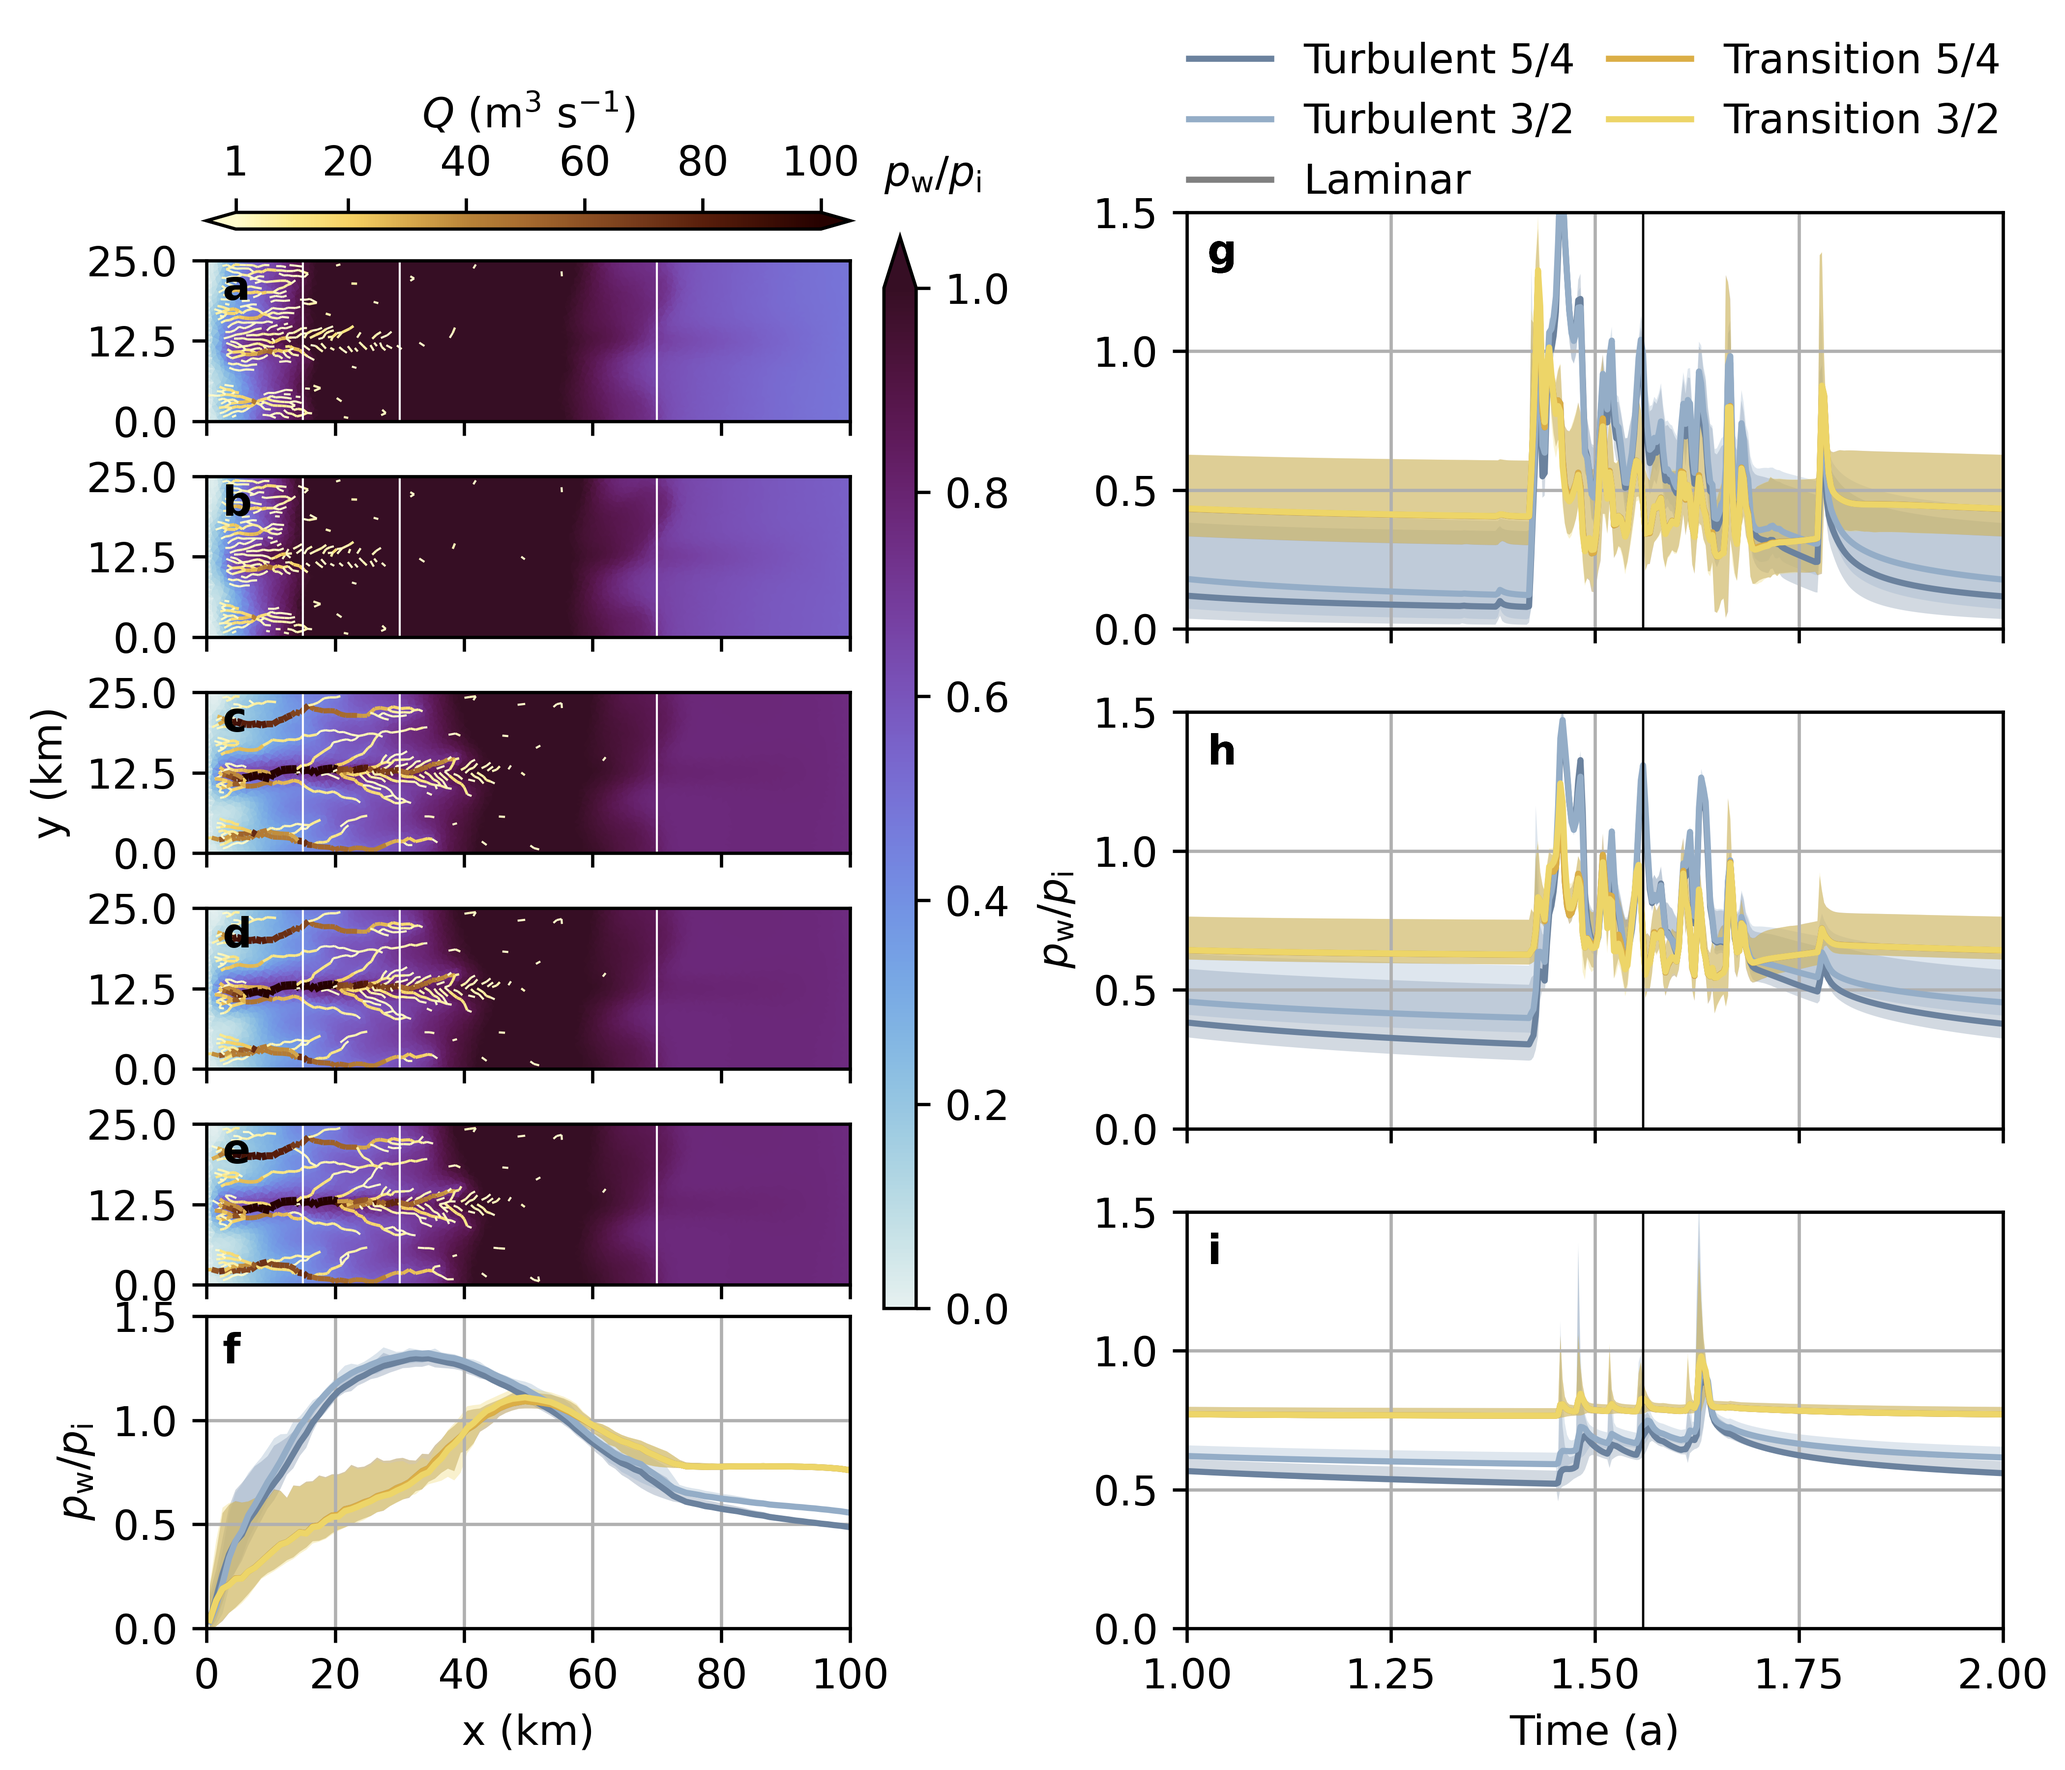
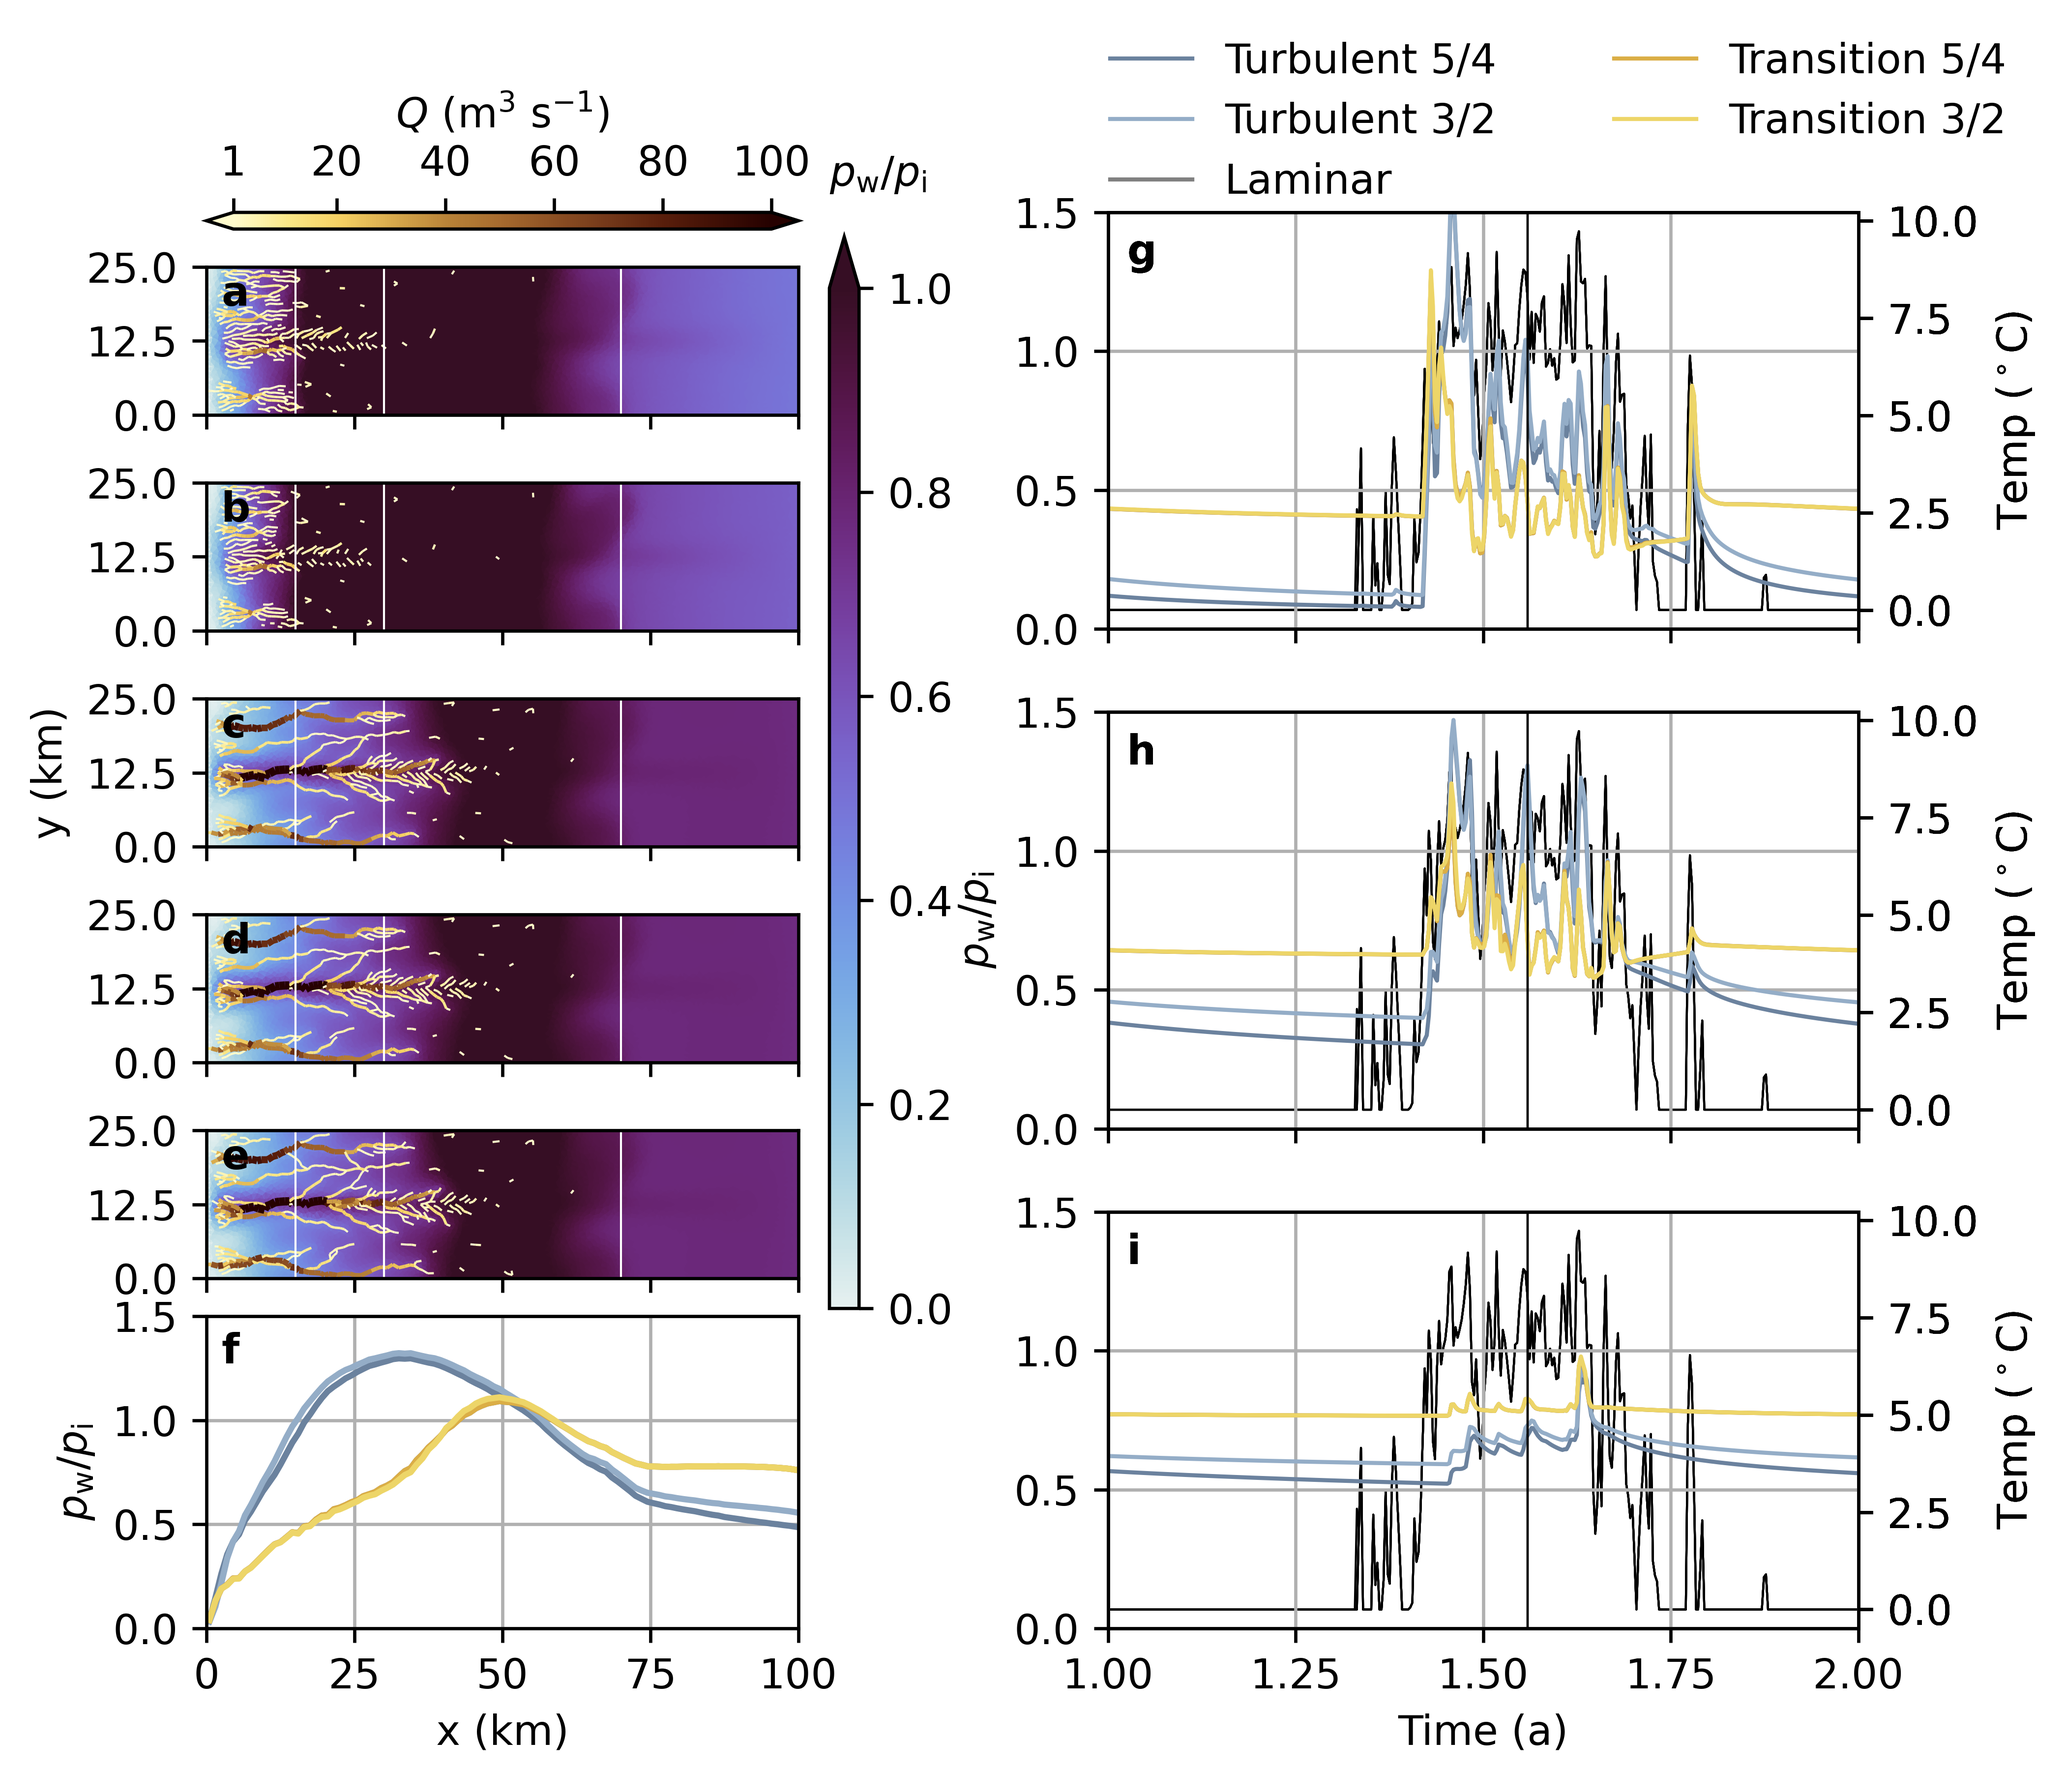
Temperature

diff --git a/analysis/plot_pressure_maps_timeseries.py b/analysis/plot_pressure_maps_timeseries.py
@@ -23,7 +23,7 @@ figsize=(7, 6)
 
 gs_kwargs=dict(wspace=0.05, hspace=0.2, 
         width_ratios = (100, 30, 115), 
-        left=0.1, right=0.97, bottom=0.08)
+        left=0.1, right=0.9, bottom=0.08)
 
 
 
@@ -98,13 +98,14 @@ def plot_pressure_maps_timeseries(fnames, figname, tslice=defaults.tslice,
     n_cases = len(fnames)
 
     # Sort out melt forcing
-    if melt_forcing=='SHMIP':
-        tt_temp = np.loadtxt('../../data/AWS_GEUS/KAN_L_2014_temp_clipped.txt', delimiter=',')
+    if melt_forcing=='KAN':
+        tt_temp = np.loadtxt('../glads/data/kan_l_melt/KAN_L_2014_temp_clipped.txt', delimiter=',')
         tt_days = tt_temp[:, 0]
         temp_sl = tt_temp[:, 1]
-        temp_fun = lambda t: np.interp(t, tt_days/365, temp_sl, left=0, right=0)
-    elif melt_forcing=='KAN':
-        temp_fun = lambda t: -16*np.cos(2*np.pi*t) - 5
+        temp_fun = lambda t: np.maximum(0*t, np.interp(t%1, tt_days/365, temp_sl, left=0, right=0))
+    elif melt_forcing=='SHMIP':
+        DT = 0.0075*390
+        temp_fun = lambda t: np.maximum(-16*np.cos(2*np.pi*t) - 5 + DT, 0*t)
 
     ## Start the figure
     fig = plt.figure(figsize=figsize)
@@ -218,7 +219,8 @@ def plot_pressure_maps_timeseries(fnames, figname, tslice=defaults.tslice,
                 melt = temp_fun(tt)
                 ax_right = timeax.twinx()
                 ax_right.plot(tt, melt, color='k', linewidth=0.5)
-
+            
+            ax_right.set_ylabel('Temp ($^\circ$C)')
             timeax.set_zorder(3)
             ax_right.set_zorder(2)
             timeax.patch.set_visible(False)
@@ -248,7 +250,7 @@ def plot_pressure_maps_timeseries(fnames, figname, tslice=defaults.tslice,
     cax1.text(0, 1.1, r'$p_{\rm{w}}/p_{\rm{i}}$', transform=cax1.transAxes)
     cax2.set_xlabel(r'$Q~(\rm{m}^3~\rm{s}^{-1})$')
 
-    axs_timeseries[0].legend(bbox_to_anchor=[0, 1.02, 1., 0.102], loc='lower left',
+    axs_timeseries[0].legend(bbox_to_anchor=[0, 1.02, 1.2, 0.102], loc='lower left',
         ncol=2, mode='expand', borderaxespad=0.05, frameon=False, borderpad=0)
     for j, xb in enumerate(x_bands):
         axi = axs_timeseries[j]

diff --git a/analysis/make_pressure_figs.py b/analysis/make_pressure_figs.py
@@ -12,7 +12,7 @@ from plot_pressure_maps_timeseries import plot_pressure_maps_timeseries
 cases = [1, 2, 3, 4, 5]
 fnames = ['../glads/_00_shmip_forcing_shmip_topo/RUN/output_%03d_seasonal.nc'%caseid for caseid in cases]
 figname = '00_pressure_seasonal.png'
-fig_00 = plot_pressure_maps_timeseries(fnames, figname, Qmin=1)
+fig_00 = plot_pressure_maps_timeseries(fnames, figname, Qmin=1, melt_forcing='SHMIP')
 
 ## Case 01: Flat topo, KAN_L forcing
 KAN_tslice = 569
@@ -20,13 +20,13 @@ cases = [101, 102, 104, 104, 105]
 pattern = '../glads/01_kan_l_forcing_shmip_topo/RUN/output_%03d_seasonal.nc'
 fnames = [pattern % caseid for caseid in cases]
 figname = '01_pressure_seasonal.png'
-fig_01 = plot_pressure_maps_timeseries(fnames, figname, tslice=KAN_tslice, Qmin=1)
+fig_01 = plot_pressure_maps_timeseries(fnames, figname, tslice=KAN_tslice, Qmin=1, melt_forcing='KAN')
 
 ## Case 03: Trough topo, KAN_L forcing
 cases = [101, 102, 104, 104, 105]
 pattern = '../glads/03_kan_l_forcing_synth_topo/RUN/output_%03d_seasonal.nc'
 fnames = [pattern % caseid for caseid in cases]
 figname = '03_pressure_seasonal.png'
-fig_03 = plot_pressure_maps_timeseries(fnames, figname, tslice=KAN_tslice, Qmin=1)
+fig_03 = plot_pressure_maps_timeseries(fnames, figname, tslice=KAN_tslice, Qmin=1, melt_forcing='KAN')
 
 plt.show()
